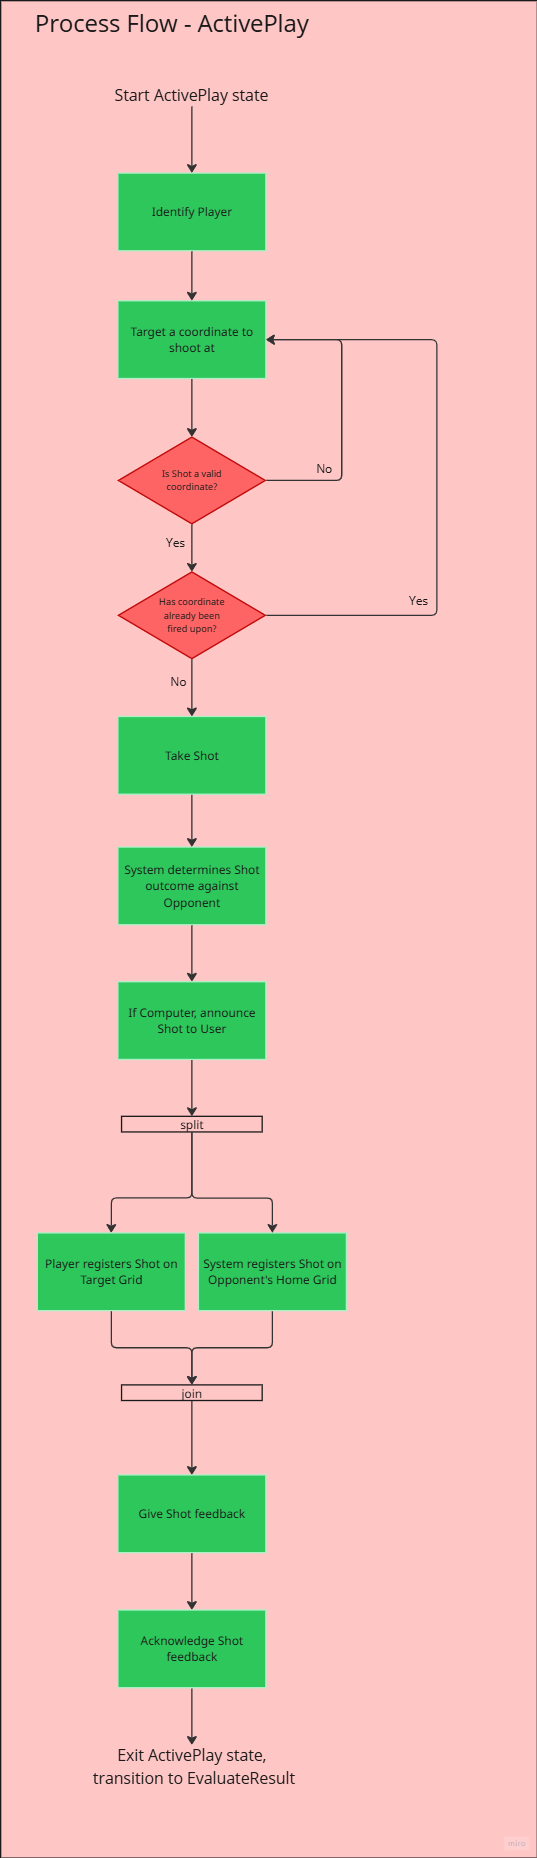
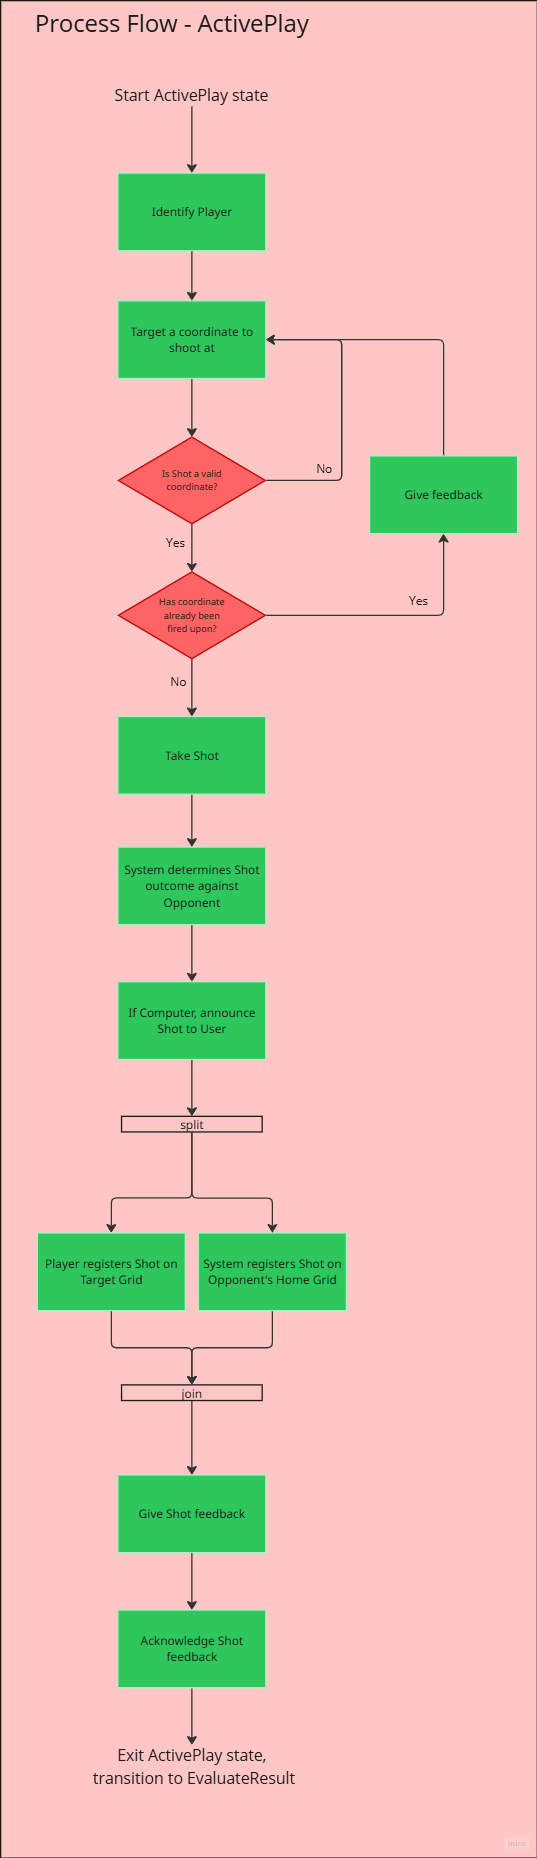
added a 'feedback' div

Changed region(s): [[0.6853, 0.1873, 0.9832, 0.3434]]

diff --git a/pages/battleships_v1.html b/pages/battleships_v1.html
@@ -11,7 +11,7 @@
     <link rel="stylesheet" href="/assets/styles/v1/reset.css">
     <link rel="stylesheet" href="/assets/styles/v1/initialisation.css?v002">
     <link rel="stylesheet" href="/assets/styles/v1/setup.css?v010">
-    <link rel="stylesheet" href="/assets/styles/v1/activePlay.css?v001">
+    <link rel="stylesheet" href="/assets/styles/v1/activePlay.css?v002">
     <link rel="stylesheet" href="/assets/styles/v1/gameOver.css?v001">
 
     <script type="module" src="/assets/javascript/v1/flow.js"></script>
@@ -484,27 +484,27 @@
 
             <div id="activePlay_container">
 
-                <div id="activePlay_containerHeader" class="activePlay_containerChild span3 logoMargin alignHorizontalCentre">
+                <div id="activePlay_containerHeader" class="span3 logoMargin alignHorizontalCentre">
 
                     <img src="/assets/images/logos/logo_text.png" alt="Battleships text logo"">
 
                 </div>
 
-                <div id="activePlay_containerLeftSide" class="activePlay_containerChild alignHorizontalCentre">
+                <div id="activePlay_containerLeftSide" class="alignHorizontalCentre">
                             
                     left
 
                 </div>
 
-                <div id="activePlay_containerMiddle" class="activePlay_containerChild activePlay_containerMiddle alignHorizontalCentre">
+                <div id="activePlay_containerMiddle" class="activePlay_containerMiddle alignHorizontalCentre">
 
                     <div id="playerActionWrapper">
 
-                        <h1>Player To Take Shot</h1>
+                        <h1 class="marginBottom">Player's Turn</h1>
 
                         <div id="activePlay_playerActionGrid">
 
-                            <h1 class="span2">Choose Coordinate of Shot</h1>
+                            <h1 class="span2 alignHorizontalCentre">Select enemy target</h1>
 
                             <input type="text" value="Grid Letter:">
 
@@ -518,20 +518,25 @@
                                 <option value="" disabled selected>select</option>
                             </select>
 
-                            <button>Take shot</button>
+                            <button class="span2 marginTop">Fire at target</button>    
 
                         </div>
+
+                        <div id="activePlay_playerActionFeedback">
+                            Feedback
+                        </div>
+
                     </div>
                 
                 </div>
 
-                <div id="activePlay_containerRightSide" class="activePlay_containerChild alignHorizontalCentre">
+                <div id="activePlay_containerRightSide" class="alignHorizontalCentre">
                             
                     Right
                 
                 </div>
 
-                <div id="activePlay_containerFooter" class="activePlay_containerChild span3 alignHorizontalCentre alignVerticalMiddle">
+                <div id="activePlay_containerFooter" class="span3 alignHorizontalCentre alignVerticalMiddle">
                                                             
                     footer
                 

diff --git a/assets/styles/v1/activePlay.css b/assets/styles/v1/activePlay.css
@@ -11,9 +11,8 @@
     background-color: green;
 }
 
-    .activePlay_containerChild{
-        display: flex;
-    }
+    /* .activePlay_containerChild{
+    } */
 
 #activePlay_containerHeader{
     background-color: pink;
@@ -44,14 +43,24 @@
 /* PLAYER ACTION */
 
 #playerActionWrapper{
-    
+    display: flex;
+    flex-direction: column;
+    align-items: center;
 }
 
 #activePlay_playerActionGrid{
     display: grid;
     grid-template-columns: minmax(0, 1fr) minmax(0, 1fr);
-    grid-template-rows: 50px 30px 30px 30px 500px;
-    width: 100%;
+    grid-template-rows: 50px 30px 30px 50px;
+    width: 80%;
     background-color: hotpink;
     gap: 2px;
+}
+
+#activePlay_playerActionFeedback{
+    margin: 50px 0;
+    width: 80%;
+    height: 100%;
+    background-color: chocolate;
+    display: flex;
 }

diff --git a/assets/styles/v1/general.css b/assets/styles/v1/general.css
@@ -65,22 +65,32 @@ input[type="text"]{
 }
 
 .alignVerticalTop{
+    display: flex;
+    flex-direction: row;
     align-items: start;
 }
 
 .alignVerticalMiddle{
+    display: flex;
+    flex-direction: row;
     align-items: center;
 }
 
 .alignHorizontalLeft{
+    display: flex;
+    flex-direction: row;
     justify-content: Left;
 }
 
 .alignHorizontalCentre{
+    display: flex;
+    flex-direction: row;
     justify-content: center;
 }
 
 .alignHorizontalRight{
+    display: flex;
+    flex-direction: row;
     justify-content: right;
 }
 
